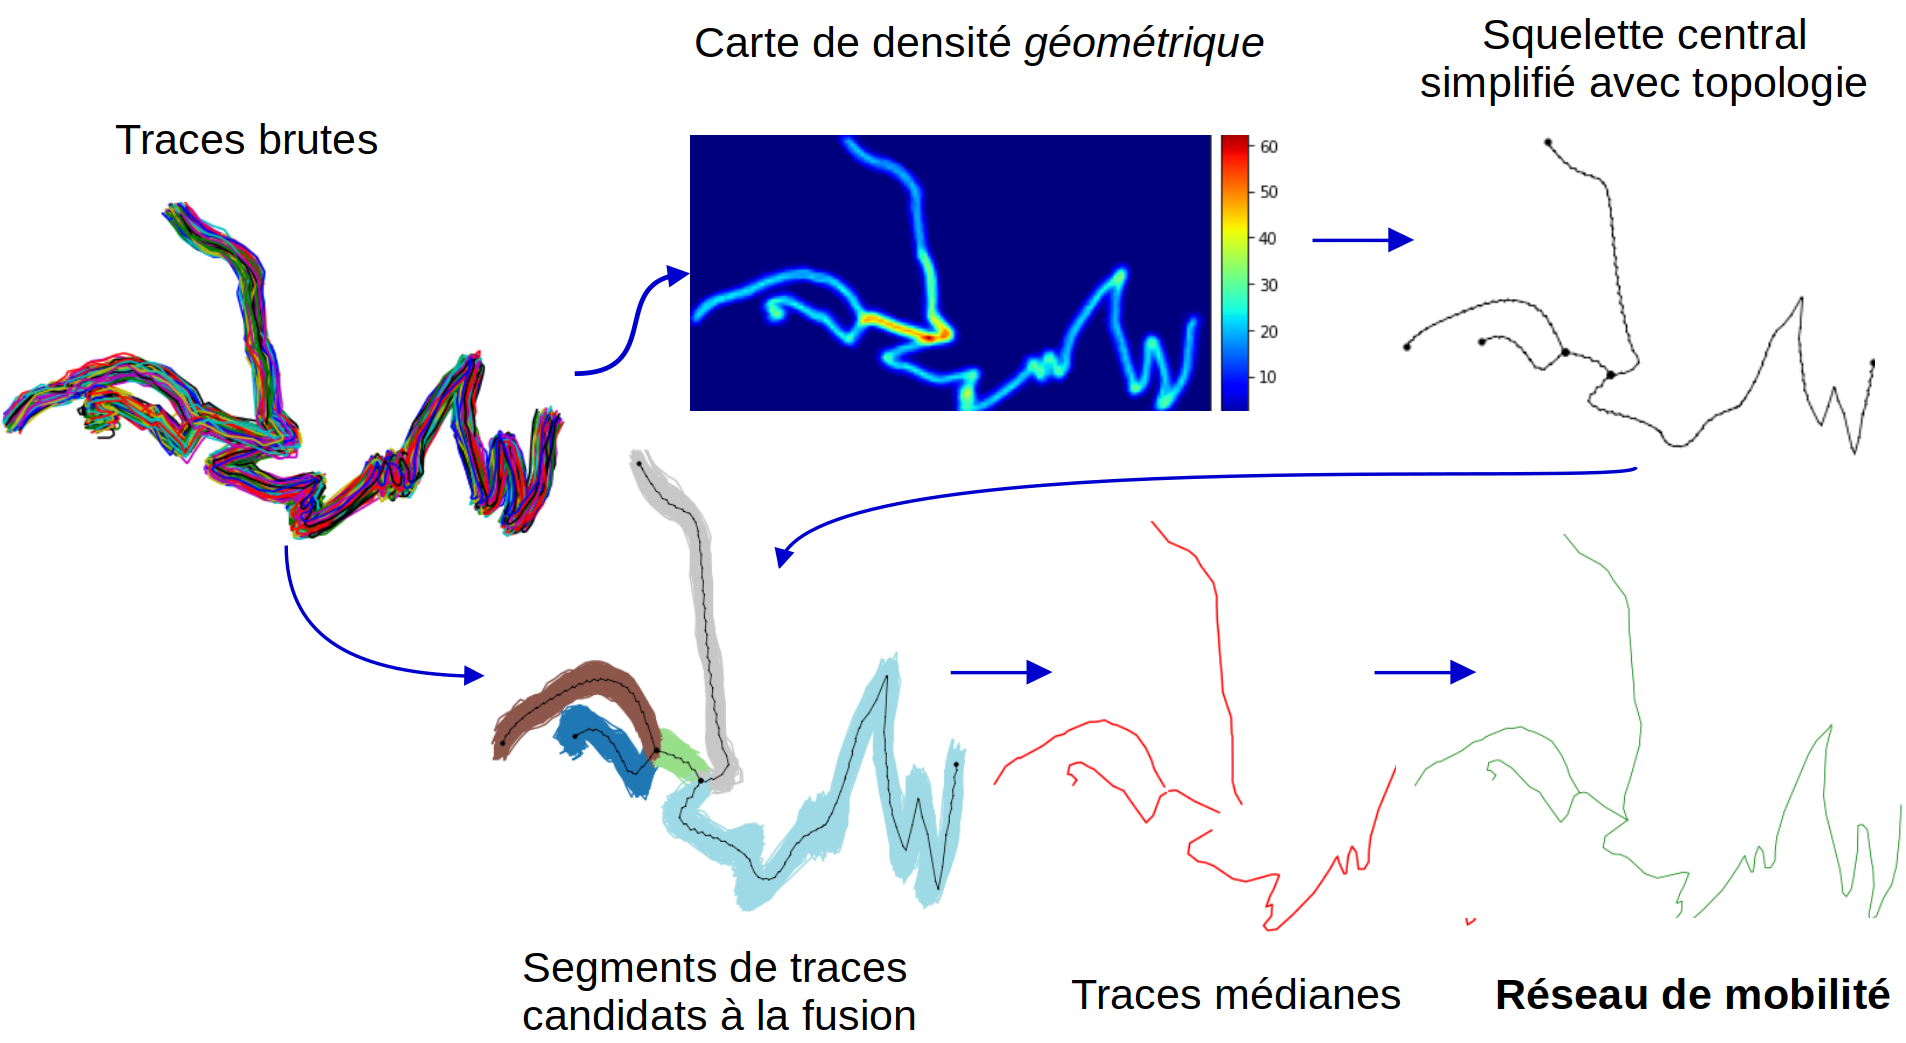
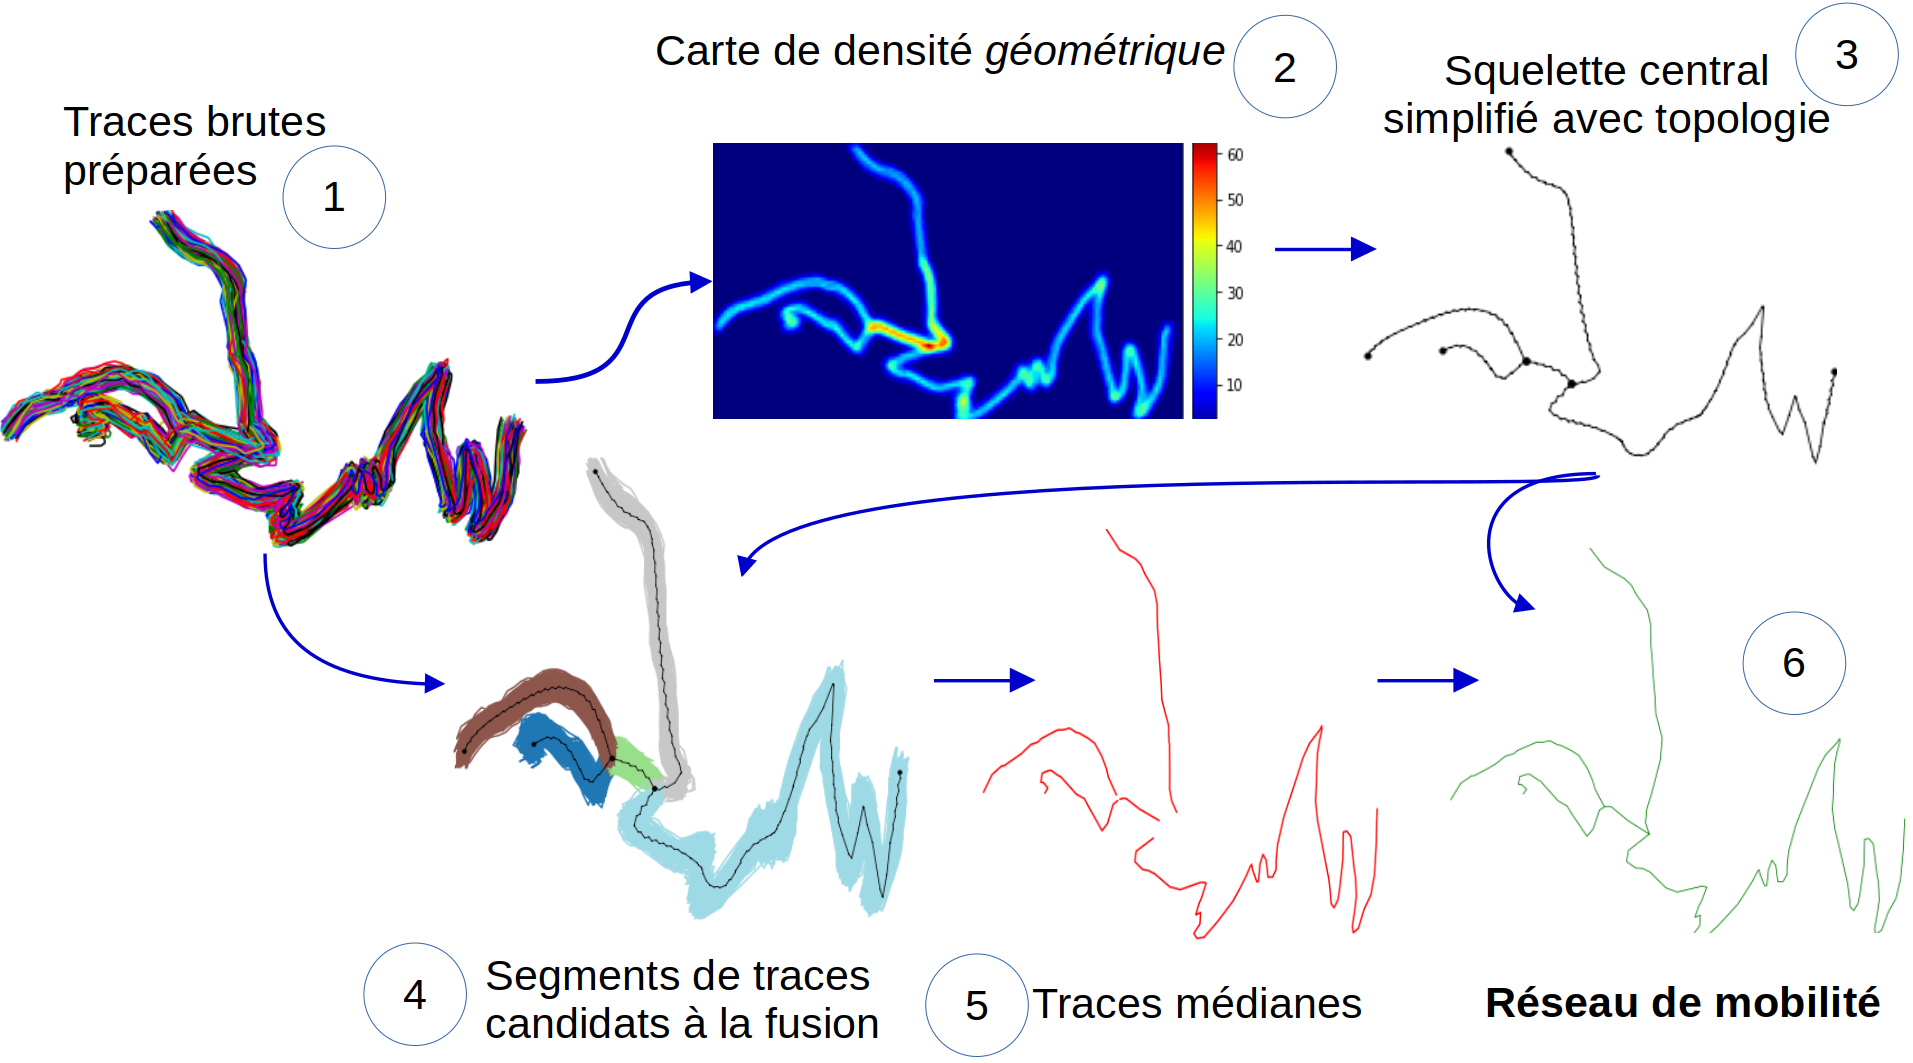
doc

diff --git a/doc/source/concepts/overview.rst b/doc/source/concepts/overview.rst
@@ -20,6 +20,16 @@ Première itération & Principe
 .. Première itération : principe de fonctionnement
 
 
+The pipeline consists of several components.
+
+(1) First, GNSS trajectories are segmented and resampled to obtain homogeneous trajectories with respect to spatial and temporal resolution.
+(2) Next, a synthetic representation of trajectories is generated through a grid-based processing approach, producing a heat map that highlights both major routes and secondary paths.
+(3) This raster representation is then transformed into a vector skeleton, i.e., a graph whose edges represent the central axes of the identified movement corridors, using skeletonization operations.
+(4) For each edge of the skeleton, the associated GNSS points are identified through map-matching operations. These points are subsequently grouped into trajectory segments, providing for each edge a set of individual traces to be compared and merged.
+(5) The segments associated with a given edge are then merged in order to reconstruct as accurately as possible the common path followed by the different individual trajectories.
+(6) Finally, a geometric adjustment step ensures the continuity of the reconstructed segments while preserving the topology of the skeleton, thereby producing the final mobility network.
+
+
 .. figure:: ../img/workflow.png
   :width: 1000
   :align: center
